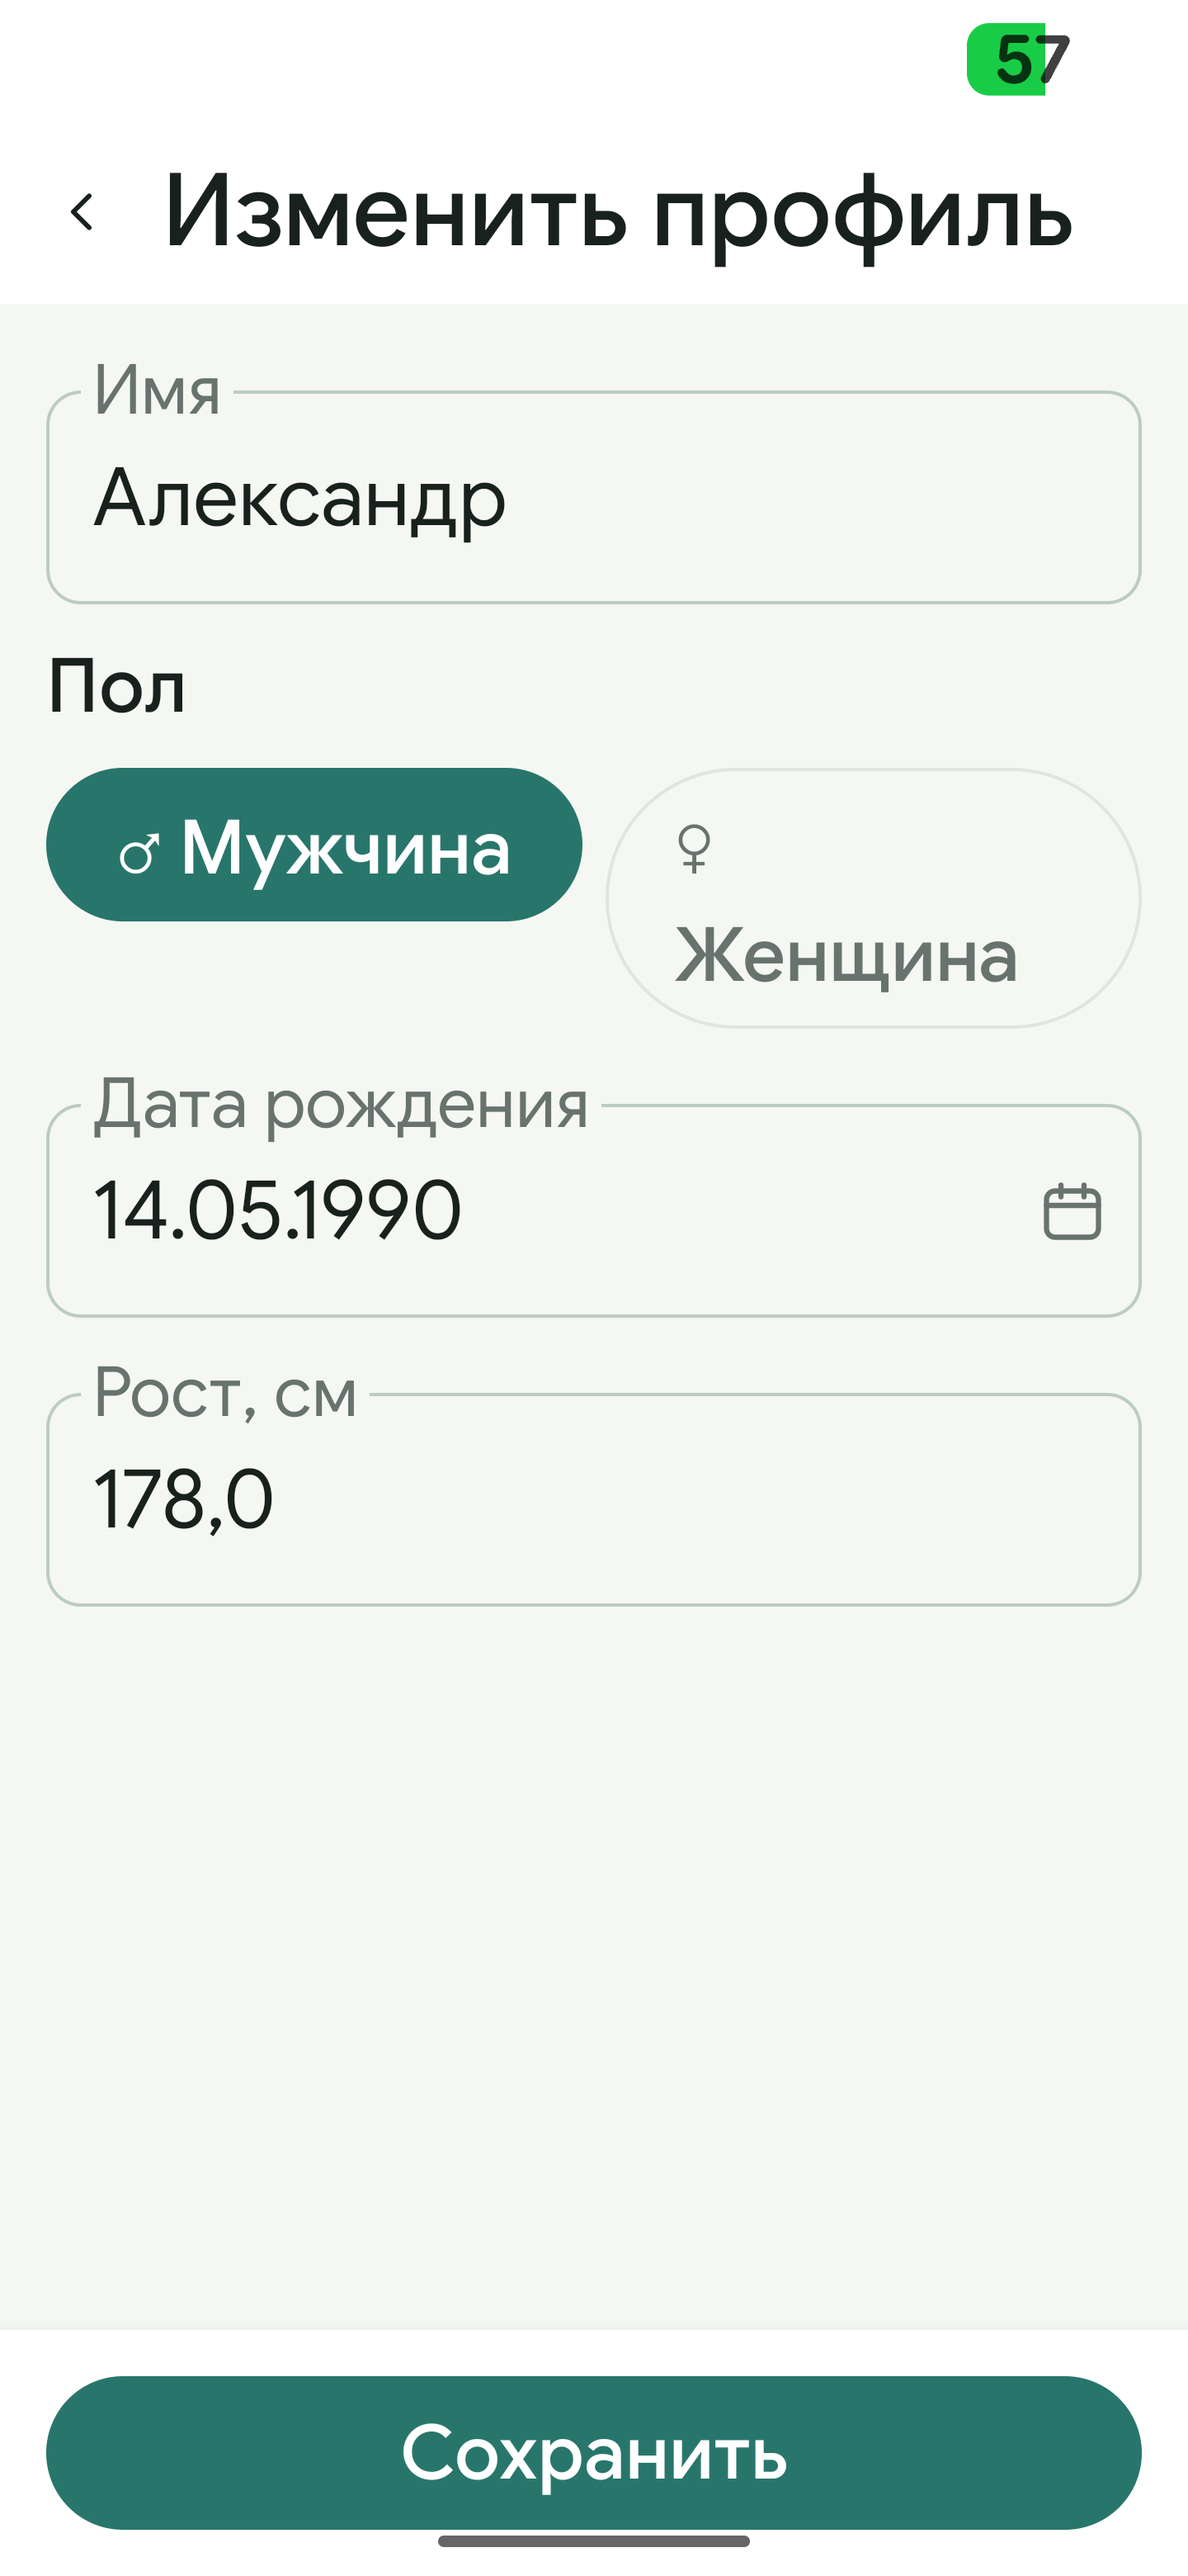
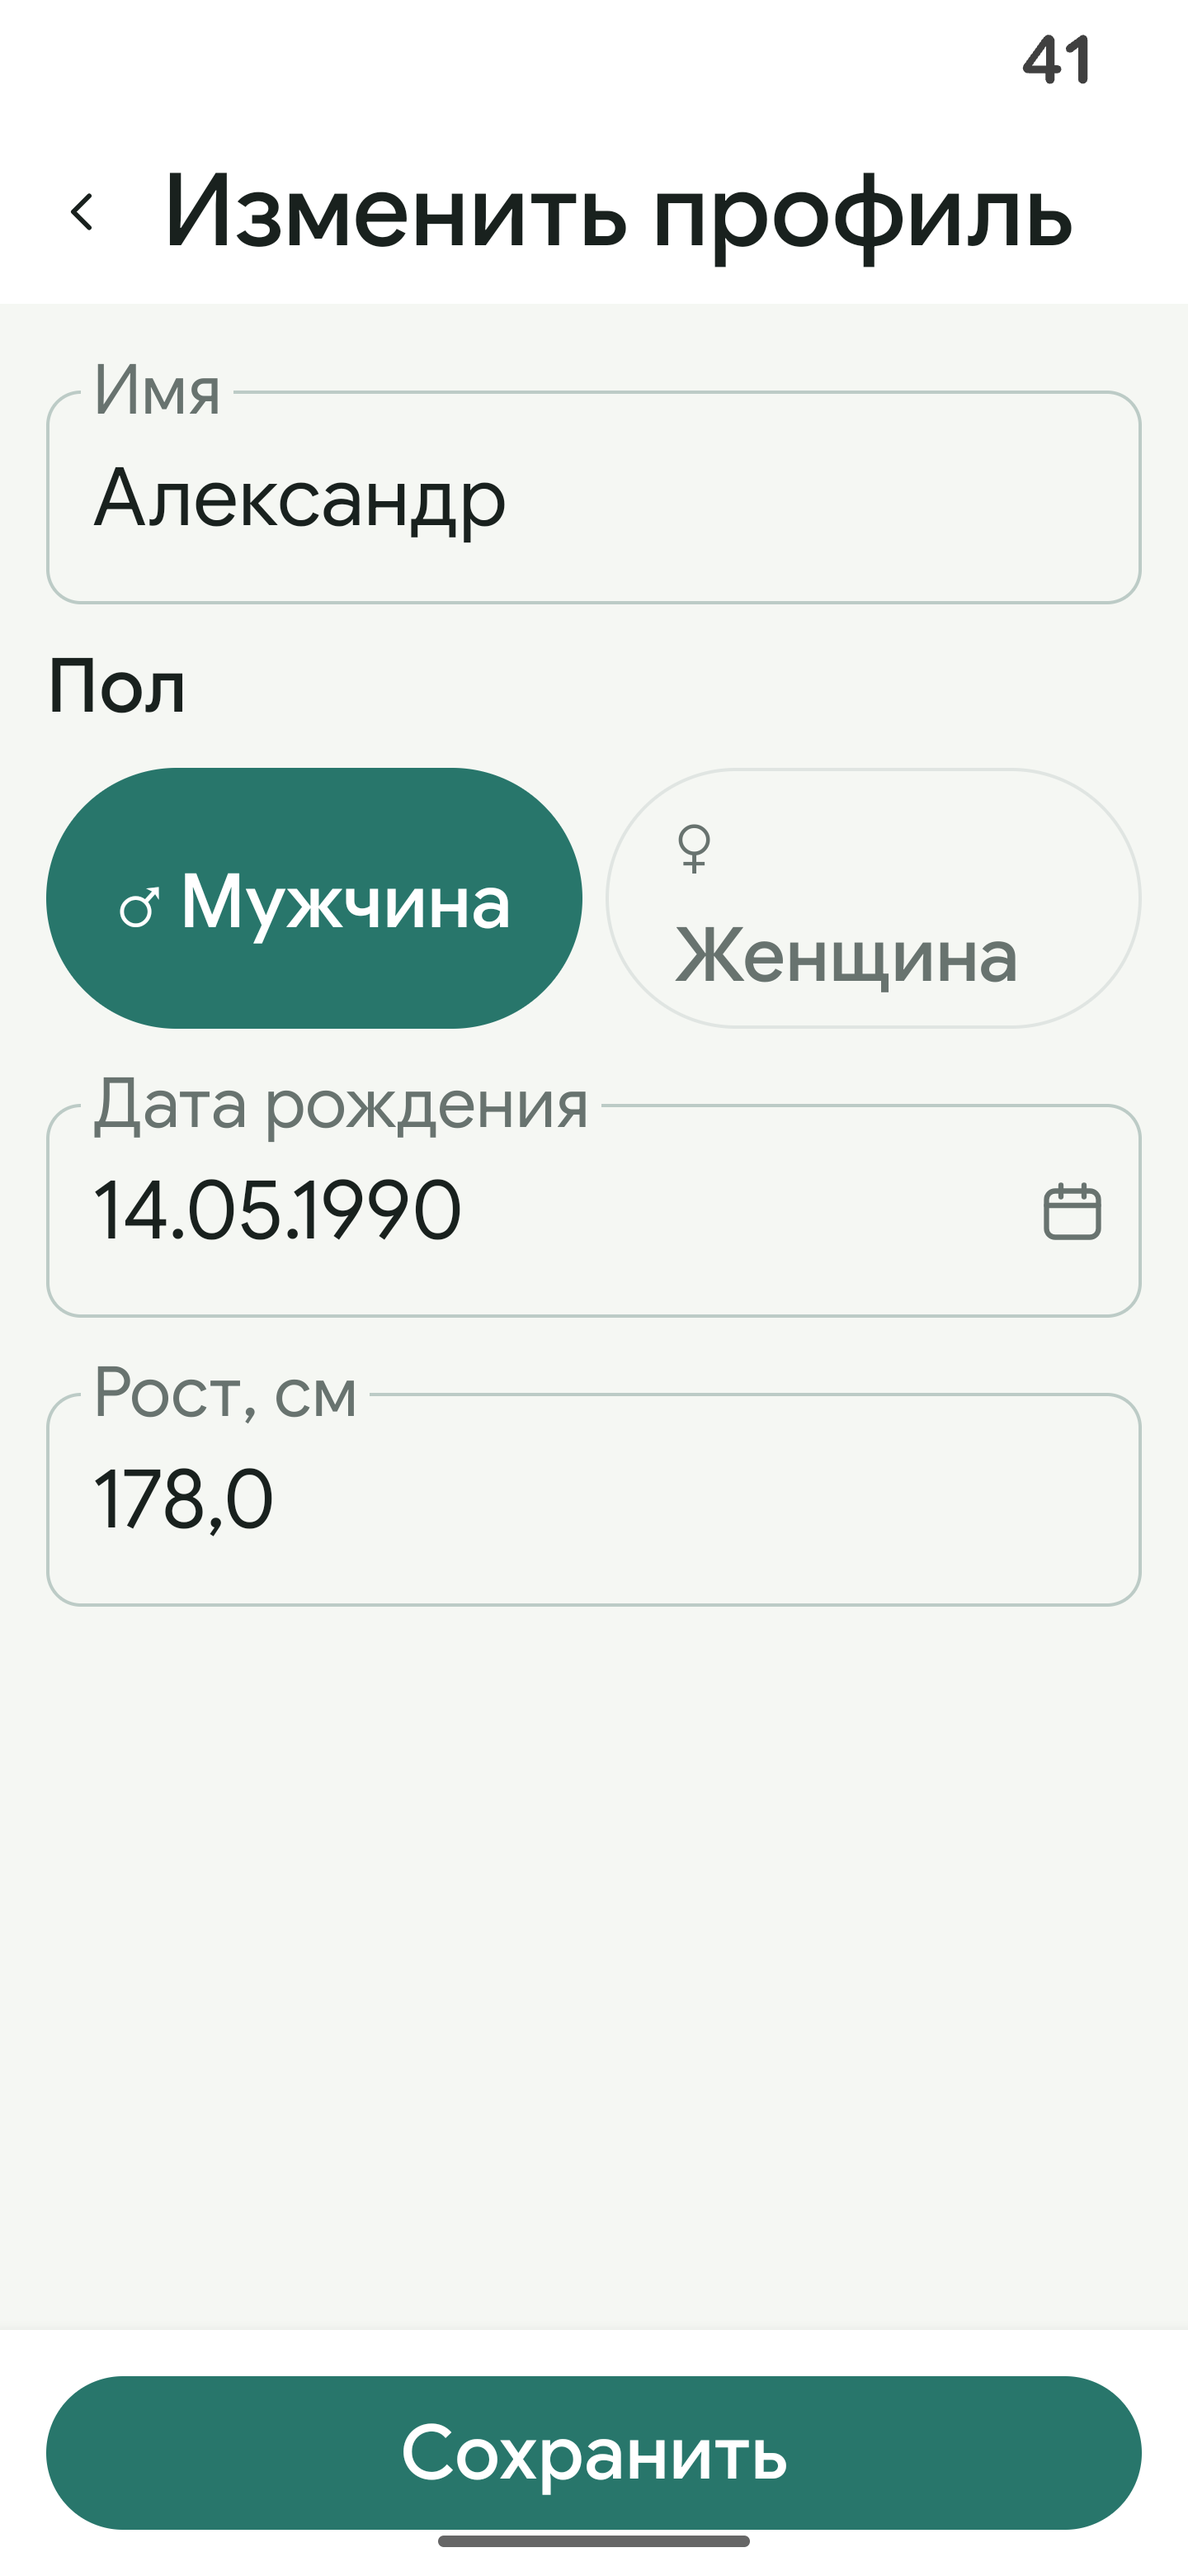
Refresh QA evidence and build version (#58)

Changed region(s): [[0.0312, 0.2798, 0.5, 0.4042], [0.8125, 0.0, 0.9375, 0.0622]]

diff --git a/docs/design/58/qa-cycle-2026-09-10/README.md b/docs/design/58/qa-cycle-2026-09-10/README.md
@@ -2,12 +2,15 @@
 
 ## Provenance
 
-- Captured 2026-09-10 from production Compose at commit `404a876` on a physical
+- Initial cycle captured at `404a876`; affected evidence was recaptured 2026-09-10
+  from production Compose at commit `2385ff0` on a physical
   Google Pixel 7 Pro (`cheetah`), Android API 36.
 - `412dp`: physical 1440×3120 at density 560.
 - `320dp`: temporary 1120×2427 override at density 560.
 - `font-200`: physical width with temporary system `font_scale=2.0`.
 - Display size and font scale were restored after capture.
+- The refreshed frames are `profiles` and `profiles-recognition` at 412/320 dp,
+  `human-editor` at 320 dp, and `human-editor-font200` at 200% font scale.
 - These frames supersede earlier implementation screenshots only for the QA surfaces
   listed below. Earlier implementation screenshots were not used as the fidelity baseline.
 
@@ -29,10 +32,15 @@
 
 - Profile and pet glyphs, the primary badge, pet measurement subtitle, and row hierarchy
   match `prototype-frames/normal-profiles.png` and `narrow-profiles.png`.
+- The profiles fixture supplies a real `DomainPetMeasurement`; its exact runtime label
+  `5,4 кг · вчера, 19:32` is asserted and rendered through production
+  `formatLatestPetWeight`. There is no screenshot-only label override.
 - Recognition is fully visible in its dedicated frame. It has no visible Save button;
   the explanatory copy, weight tolerance field, and unknown-reading option are present.
 - Human sex and pet species/sex controls use the prototype's solid selected and outlined
-  unselected button treatment at both widths and remain operable at 200% font.
+  unselected button treatment at both widths. At 320 dp and 200% font the human sex
+  buttons retain identical bounds; the female label wraps inside the shared fixed-height
+  geometry without making its button taller than the male button.
 - The resolver fixture deliberately supplies a non-candidate first and the candidate second.
   The second row still visibly carries `Рекомендуется`, proving that recommendation display
   is based on candidate identity rather than row position.
